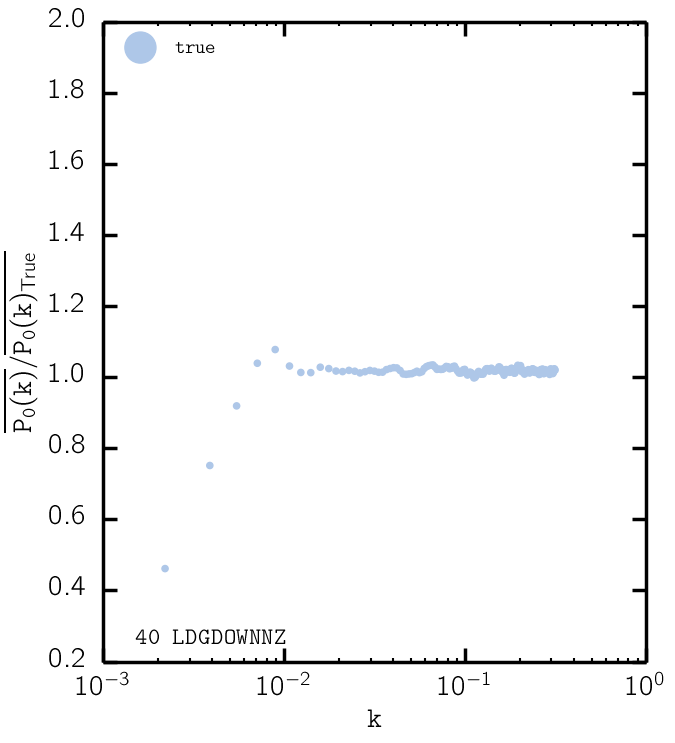
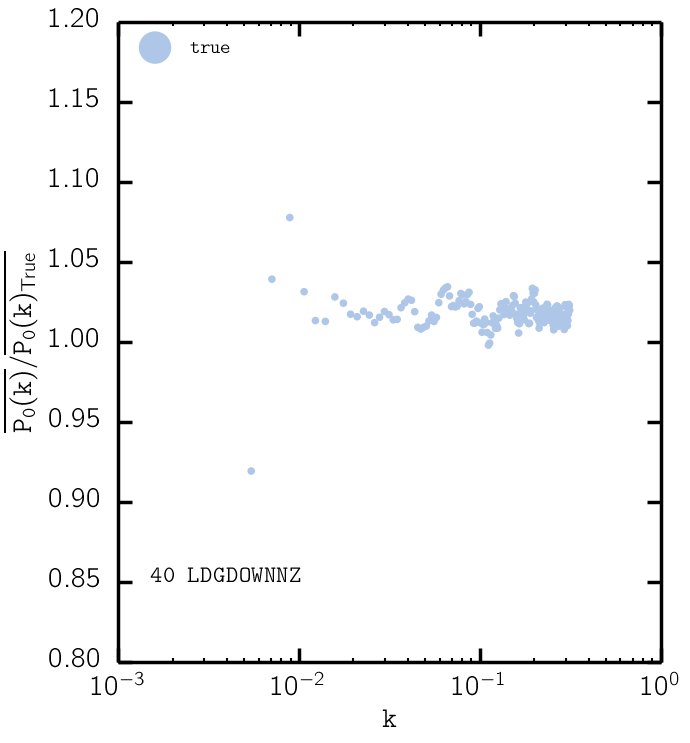
dLOS distribution comparison for BigMD, QPM, Nseries, and CMASS.

diff --git a/fibcol_dlos.py b/fibcol_dlos.py
@@ -1712,6 +1712,8 @@ def plot_fcpaper_dlos(cat_corrs):
             mocks = range(1,11) 
         elif catalog['name'].lower() == 'cmass': 
             mocks = ['']
+        elif catalog['name'].lower() == 'bigmd': 
+            mocks = ['']
         else: 
             raise NameError('error')
     
@@ -1760,14 +1762,16 @@ def plot_fcpaper_dlos(cat_corrs):
         elif catalog['name'].lower() == 'patchy': 
             cat_label = 'patchy' 
             cat_color = pretty_colors[7]
-            lwid=4
         elif catalog['name'].lower() == 'tilingmock': 
             cat_label = 'Tiling Mock' 
             cat_color = pretty_colors[5]
         elif catalog['name'].lower() == 'cmass': 
             cat_label = 'BOSS CMASS'
             cat_color = pretty_colors[0]
-            lwid = 3 
+            lwid = 2
+        elif catalog['name'].lower() == 'bigmd': 
+            cat_label = 'Big MultiDark'
+            cat_color = pretty_colors[11]
         else: 
             raise NameError('asdf') 
 
@@ -1778,7 +1782,7 @@ def plot_fcpaper_dlos(cat_corrs):
     sub.set_xlabel(r"d$_{\rm{LOS}}$ (Mpc)", fontsize=24) 
     sub.set_xlim([-45.0, 45.0])
     #sub.set_xlim([0.1, 100.0])
-    sub.set_ylim([0.0, 0.07])
+    sub.set_ylim([0.0, 0.125])
     #sub.set_xscale('log') 
     #sub.set_yscale("log") 
     sub.legend(loc='upper left', scatterpoints=1, prop={'size':20}) 
@@ -1844,7 +1848,13 @@ if __name__=="__main__":
     #for i in np.arange(1,2): 
     #    cat_corr = {'catalog': {'name': 'nseries', 'n_mock': i}, 'correction': {'name': 'upweight'}} 
     #    build_dlos(**cat_corr) 
-    combined_catalog_dlos_fits('bigmd', 1)
+    #combined_catalog_dlos_fits('bigmd', 1)
     #combined_catalog_dlos_fits('lasdamasgeo', 5)
     #nseries_idl_python_dlos_test(1)
     #ldg_idl_python_dlos_test(10)
+    cat_corrs = [
+            {'catalog': {'name': 'cmass'}, 'correction': {'name': 'upweight'}}, 
+            {'catalog': {'name': 'qpm'}, 'correction': {'name': 'upweight'}}, 
+            {'catalog': {'name': 'nseries'}, 'correction': {'name': 'upweight'}}, 
+            {'catalog': {'name': 'bigmd'}, 'correction': {'name': 'upweight'}}]
+    plot_fcpaper_dlos(cat_corrs)

diff --git a/plot_fibcol.py b/plot_fibcol.py
@@ -1099,6 +1099,16 @@ if __name__=="__main__":
     #plot_avg_pk_fibcol('lasdamasgeo', 40, {'name': 'true'}, quad=False)   
     #plot_avg_pk_fibcol('qpm', 100, {'name': 'true'}, quad=False)   
     #plot_comdis2z_test()
+    ldgdownnz_methods = [
+            {'catalog': {'name': 'lasdamasgeo'}, 'correction': {'name': 'true'}}, 
+            {'catalog': {'name': 'ldgdownnz'}, 'correction': {'name': 'true'}} 
+            ]
+    plot_pk_fibcol_comp(ldgdownnz_methods, 10,
+            quad=False, Ngrid=360, type='regular', 
+            xrange=[0.001, 1.0], yrange=[10**3, 3*10**5])
+    plot_pk_fibcol_comp(ldgdownnz_methods, 10,
+            quad=False, Ngrid=360, type='ratio', 
+            xrange=[0.001, 1.0], yrange=[0.8, 1.2])
 
     ldgdownnz_methods = [
             {'catalog': {'name': 'ldgdownnz'}, 'correction': {'name': 'true'}}, 
